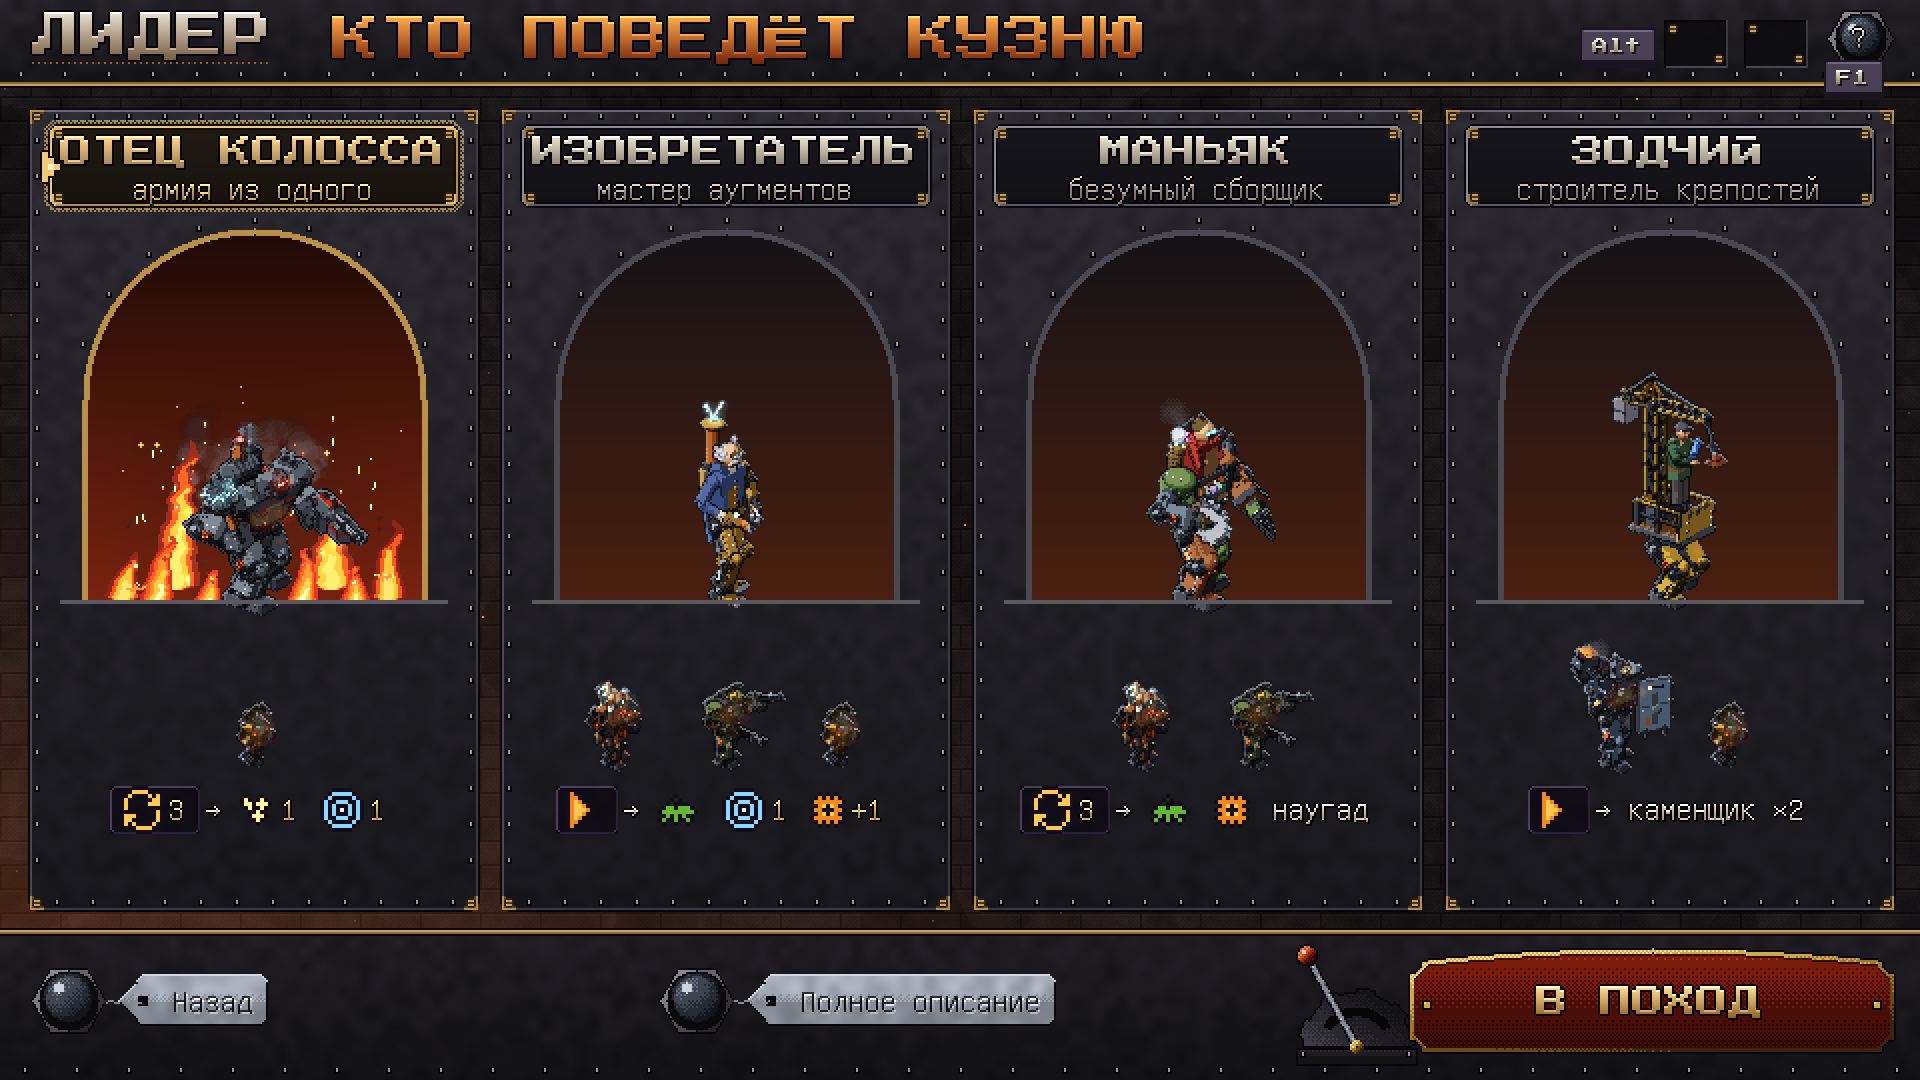
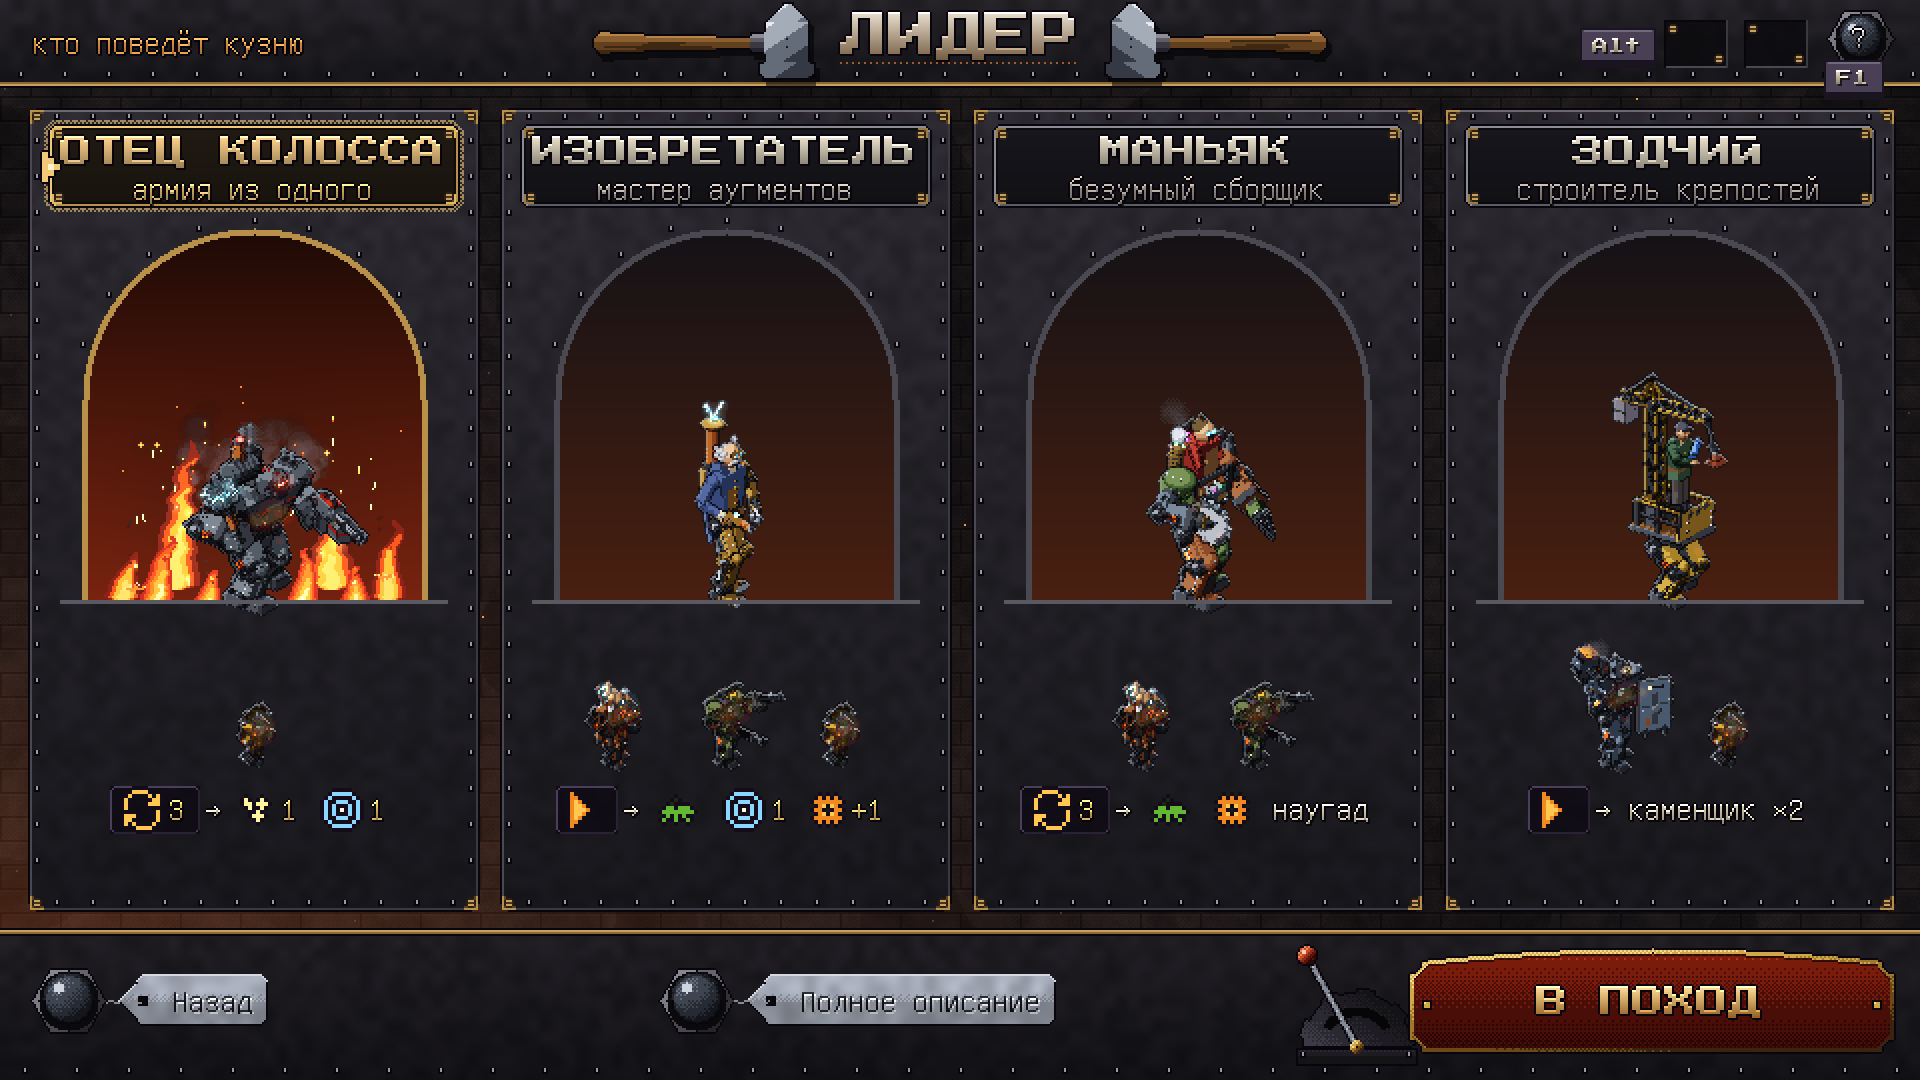
Литейщик: состояния и мелочи интерфейса
Заголовки карточки голема и выбора лидера по центру балки. Победа:
«Дальше» — наряд в мастерскую по шагам (ремонт, находка 1 из 3,
мастерская) и кошелёк после ремонта; трофей с машины. Перетаскивание
модуля: подходящее место горит, чужие корпуса под крестом. Лист
состояний: кнопки, ячейки, пустые панели.

Claude-Session: https://claude.ai/code/session_01Bh6a99SKMjjKSinDnrtssC

Changed region(s): [[0.0, 0.0, 0.6875, 0.0917]]

diff --git a/tools/sprites/foundry_hud.py b/tools/sprites/foundry_hud.py
@@ -637,13 +637,20 @@ def slipway(sc, frame, mods, core, ncell, rect, new_key=None, variant=None, role
             H.HOVER.append(("ядро", bx + 8, by + 18, 16, 16))
             letters(sc, MOD_NAME[key], bx + 30, by + 17, "text", 16, col=INK)
             callout(sc, pt, (ex, by + BH // 2), lane=lane)
+        elif st == "incoming" and variant == "drag":                  # dragged: the free cell waits for it, lit
+            FU.cell(sc, bx, by, bx + bw, by + BH, "new")
+            letters(sc, lab.upper(), bx + 8, by + 4, "title", 8, col=(150, 200, 230), outline=False)
+            letters(sc, "сюда", bx + bw // 2, by + 17, "text", 16, col=(170, 220, 250), align="center")
+            callout(sc, pt, (ex, by + BH // 2), col=hexc("#9ad8ff"), lane=lane, dash=True)
+            sc.glow(pt[0], pt[1], 9, hexc("#9ad8ff"), 0.6)
+            hot = (pt, bx + bw - 30, by + 28, bx, by, "r")
         elif st == "incoming":
             FU.cell(sc, bx, by, bx + bw, by + BH, "hover" if variant is None else "new")
             letters(sc, lab.upper(), bx + 8, by + 4, "title", 8, col=(150, 200, 230), outline=False)
             mod_icon(sc, key, bx + 8, by + 18)
             letters(sc, MOD_NAME[key], bx + 28, by + 17, "text", 16, col=(255, 210, 150))
             callout(sc, pt, (ex, by + BH // 2), col=HOTC, lane=lane)
-            hot = (pt, bx + bw - 30, by + 28)
+            hot = (pt, bx + bw - 30, by + 28, bx, by, "r")
         elif st == "broken":
             part_box(sc, bx, by, key, lab, lv, state="broken", w=bw, h=BH)
             callout(sc, pt, (ex, by + BH // 2), col=RED_, lane=lane)
@@ -697,7 +704,7 @@ def panel_tabs(sc, cur, broken=1, anim=None):
     sc.rgb[84, 710:946] = hexc("#8a6a34")
 
 
-def loot_panel(sc, new_key):
+def loot_panel(sc, new_key, drag=False):
     H.fx_line(sc, 720, 90, "{выбор:1 из 3}", dim=True)
     for j, (key, kind, st, nm, who, lines) in enumerate(OFFERS):
         y0 = 114 + j * 114
@@ -705,8 +712,8 @@ def loot_panel(sc, new_key):
         FU.cell(sc, 716, y0, 940, y0 + 106, "hi" if on_hook else st)
         if on_hook:
             FU.socket(sc, 724, y0 + 10, 776, y0 + 62)
-            letters(sc, "на", 750, y0 + 20, "text", 16, col=BRASS, align="center")
-            letters(sc, "крюке", 750, y0 + 38, "text", 16, col=BRASS, align="center")
+            letters(sc, "в" if drag else "на", 750, y0 + 20, "text", 16, col=BRASS, align="center")
+            letters(sc, "руке" if drag else "крюке", 750, y0 + 38, "text", 16, col=BRASS, align="center")
         else:
             FU.cell(sc, 724, y0 + 10, 776, y0 + 62, "locked")
             if isinstance(key, tuple):
@@ -803,7 +810,7 @@ def workshop(variant=None, frame="Орудие", new_key="long", name=None, pane
         FU.steam(sc, 430, 150, 14, seed=4)
     else:
         hot = slipway(sc, frame, mods, core, ncell, (186, 62, 690, 408), new_key=new_key, variant=variant,
-                      role=role, broken=state == "broken", body=body, anim=a_)
+                      role=role, broken=state == "broken", body=body, anim=a_, crane=variant != "drag")
     # under the drawing: the frame's own and its cells
     passive = {"Страж": "Заслон: {радиус:1} → {цель:1}", "Мудрец": "Питание: {свой} {радиус:1} → {через:−1}",
                "Горн": "Жар горна: {каждые:1} → {огонь} {радиус:1}", "Орудие": "Наводка: {дальность} → {урон} без потерь",
@@ -822,7 +829,7 @@ def workshop(variant=None, frame="Орудие", new_key="long", name=None, pane
     elif panel == "repair":
         repair_panel(sc)
     else:
-        loot_panel(sc, new_key)
+        loot_panel(sc, new_key, drag=variant == "drag")
     FU.sill(sc, 468)
     action(sc, 12, 478, 174, 526, "Автосборка", "steel")
     action(sc, 178, 478, 356, 526, "Починить · 2", "hot", heated=panel == "repair")
@@ -834,13 +841,108 @@ def workshop(variant=None, frame="Орудие", new_key="long", name=None, pane
         return sc
     if panel == "repair":
         H.cursor(sc, 201, 506)
+    elif variant == "drag":
+        drag_over(sc, new_key, hot, frame, a_.get("at", (446, 300)), a_.get("glow", 1.0))
     elif variant is None and hot:
         H.cursor(sc, hot[1], hot[2])
+    if variant == "drag":
+        name = name or "foundry_drag.png"
     name = name or {"loot": "foundry_workshop.png", "rack": "foundry_workshop_rack.png",
                     "repair": "foundry_workshop_repair.png"}[panel]
     img = sc.image(S)
     img.save(out(name))
     print(name, img.size)
+
+
+def drag_over(sc, key, hot, frame, at, glow=1.0):
+    """A module carried with the mouse: the bays it can't go to (other hulls) go dark under a red cross, its tag
+    says why; the cell it can take is lit cold blue, a dotted line runs to it from the module; the module itself
+    rides the cursor, lifted, its shadow under it."""
+    for i, (fr, *_r) in enumerate(ARMY):                              # the rack: only its own hull takes it
+        if fr == frame:
+            continue
+        y = 52 + i * 92
+        sc.rgb[y + 2:y + 84, 12:166] *= 0.42
+        for d in range(-2, 3):                                        # the cross, thick, rust red
+            for t in np.linspace(0, 1, 120):
+                x_, y_ = int(30 + t * 56), int(y + 20 + t * 52)
+                sc.rgb[y_ + d, x_ - 1:x_ + 2] = hexc("#c84a3a")
+                sc.rgb[int(y + 72 - t * 52) + d, x_ - 1:x_ + 2] = hexc("#c84a3a")
+        FU.tag(sc, 20, y + 58, 164, y + 80, "другой корпус", "rust")
+    if hot is not None and len(hot) > 4:                              # the cell that takes it: a dotted line to it
+        tx, ty = hot[3], hot[4] + 21
+        sc.glow(tx + 75, ty, 46, hexc("#9ad8ff"), 0.5 * glow)
+        x0, y0 = at[0] + 40, at[1] + 20
+        n = int(np.hypot(tx - x0, ty - y0) / 6)
+        for k in range(n):
+            if k % 2 == 0:
+                x_ = int(x0 + (tx - x0) * k / n)
+                y_ = int(y0 + (ty - y0) * k / n)
+                sc.rgb[y_ - 1:y_ + 2, x_ - 1:x_ + 2] = SU.OUTL
+                sc.rgb[y_:y_ + 2, x_:x_ + 2] = hexc("#cfeeff")
+    cx, cy = at                                                       # the module in hand
+    sh = (sc.xx >= cx + 6) & (sc.xx < cx + 50) & (sc.yy >= cy + 8) & (sc.yy < cy + 52)
+    sc.rgb[sh] *= 0.5
+    sc.glow(cx + 22, cy + 22, 30, hexc("#ffb060"), 0.3)
+    FU.cell(sc, cx, cy, cx + 44, cy + 44, "hover")
+    mod_icon(sc, key, cx + 6, cy + 6, 2)
+    H.cursor(sc, cx + 26, cy + 28)
+
+
+def states():
+    """The Foundry's controls and cells in every state, on one sheet: a control at rest, under the mouse, pressed,
+    and shut (its metal dull, why — under it); the cells' rims; the panels when there is nothing in them."""
+    sc = screen(97)
+    FU.wing(sc, 0, 0, WW, 44)
+    title_center(sc, "СОСТОЯНИЯ", "wrench")
+    FU.plate(sc, 12, 52, 948, 266, seed=81)
+    heading(sc, "КНОПКИ", 26, 62)
+    cols = ("обычная", "под мышью", "нажата", "недоступна")
+    for i, c in enumerate(cols):
+        letters(sc, c, 124 + i * 232, 86, "text", 16, col=MUTED, align="center")
+    for i in range(4):
+        x0 = 24 + i * 232
+        heated, an = i == 1, ({"press": 1.0} if i == 2 else None)
+        before = sc.rgb.copy()
+        action(sc, x0, 106, x0 + 200, 138, "Автосборка", "dull" if i == 3 else "steel", heated=heated, anim=an)
+        action(sc, x0, 146, x0 + 200, 178, "Починить · 2", "hot", heated=heated, anim={"turn": 0.5} if i == 2 else None)
+        action(sc, x0, 190, x0 + 214, 236, "В БОЙ", "hot" if i < 3 else "dull", big=True, heated=i in (1, 2),
+               anim={"angle": 1.0, "glow": 1.0} if i == 2 else None)
+        if i == 3:                                                    # shut: the metal of the controls dulled, and why
+            new_ = np.abs(sc.rgb - before).max(axis=2) > 1
+            new_[:142, :] = False
+            sc.rgb[new_] *= 0.55
+            H.fx_line(sc, x0 + 6, 240, "не хватает {металл:2}")
+    FU.plate(sc, 12, 272, 948, 372, seed=82)
+    heading(sc, "ЯЧЕЙКИ", 26, 282)
+    cells = [("normal", "обычная"), ("hi", "выбрана"), ("hover", "под мышью"), ("new", "новое"), ("broken", "сломано"),
+             ("rare", "редкое"), ("trophy", "трофей"), ("locked", "закрыто"), ("locked", "пусто")]
+    for i, (st, what) in enumerate(cells):
+        x0 = 24 + i * 102
+        FU.cell(sc, x0, 306, x0 + 94, 344, st)
+        if what == "пусто":
+            for k in range(x0 + 10, x0 + 84, 6):                      # an empty place: a dashed outline in it
+                sc.rgb[316, k:k + 3] = hexc("#4a4a52")
+                sc.rgb[334, k:k + 3] = hexc("#4a4a52")
+        letters(sc, what, x0 + 47, 348, "text", 16, col=MUTED, align="center")
+    FU.plate(sc, 12, 378, 948, 532, seed=83)
+    heading(sc, "ПУСТО", 26, 388)
+    empties = [("ДОБЫЧА", "добычи нет — враг ушёл", "или пропуск → {металл:+4}"),
+               ("СТОЙКА", "стойка пуста", "детали — из добычи и трофеев"),
+               ("РЕМОНТ", "всё цело", "{ремонт} не нужен")]
+    for i, (tab_, ln1, ln2) in enumerate(empties):
+        x0 = 24 + i * 308
+        FU.tab(sc, x0, 414, x0 + 90, 440, tab_, active=True)
+        FU.cell(sc, x0, 440, x0 + 296, 522, "locked")
+        for k in range(x0 + 10, x0 + 286, 6):
+            sc.rgb[450, k:k + 3] = hexc("#3a3a42")
+            sc.rgb[512, k:k + 3] = hexc("#3a3a42")
+        letters(sc, ln1, x0 + 148, 458, "text", 16, col=PALE, align="center")
+        w_, _ = H.fx_line(sc, 0, 0, ln2, draw=False)
+        H.fx_line(sc, int(x0 + 148 - w_ / 2), 482, ln2, dim=True)
+    img = sc.image(S)
+    img.save(out("foundry_states.png"))
+    print("foundry_states.png", img.size)
 
 
 def GP_part(frame, slot):
@@ -1279,7 +1381,8 @@ def card(frame="Орудие", hover="mortar", anim=None, ret=False):
     the right its passport — leadership, core, last battle; body; blow; what its class can and can't."""
     sc = screen(13)
     FU.wing(sc, 0, 0, WW, 44)
-    title(sc, frame.upper(), "стрелок · голем")
+    title_center(sc, frame.upper(), "wrench")
+    letters(sc, "стрелок · голем", 16, 13, "text", 16, col=MUTED)
     toolbar(sc)
     mods = {"mortar": 1, "canister": 1, "long": 1}
     ncell, core = 4, "cast"
@@ -1391,8 +1494,8 @@ def leaders_pick(anim=None, ret=False):
     import frames as F
     sc = screen(17)
     FU.wing(sc, 0, 0, WW, 44)
-    w = title(sc, "ЛИДЕР")
-    letters(sc, "КТО ПОВЕДЁТ КУЗНЮ", 16 + w + 30, 8, "title", 24, col=(255, 170, 80), col2=(120, 40, 10))
+    title_center(sc, "ЛИДЕР", "hammer")
+    letters(sc, "кто поведёт кузню", 16, 13, "text", 16, col=(255, 170, 80))
     toolbar(sc)
     for i, (nm, epi, kind, k, army, rule) in enumerate(PICK):
         x0, sel = 14 + i * 236, i == 0
@@ -1661,8 +1764,23 @@ def stamp(sc, x, y, text, col="#e0503a"):
         sc.rgb[sy, sx] = hexc("#14243a")
 
 
-def aftermath(anim=None, ret=False):
-    """Victory: what broke and what it cost, what the battle paid, who did what."""
+def num_disc(sc, cx, cy, n, on=True):
+    """A step's number on a work order: a brass disc struck with the digit, like a tool check."""
+    X, Y = sc.xx - cx, sc.yy - cy
+    d = np.hypot(X, Y)
+    m = d <= 12.5
+    t = np.clip((Y + 12) / 24, 0, 1)[..., None]
+    a_, b_ = (hexc("#f0c878"), hexc("#8a6024")) if on else (hexc("#a8aab4"), hexc("#4a4a52"))
+    sc.rgb[m] = (a_ * (1 - t) + b_ * t)[m]
+    sc.rgb[m & (d > 11.2)] = SU.OUTL
+    sc.occ[m] = True
+    letters(sc, str(n), cx + 1, cy - 8, "title", 16, col=(52, 32, 12) if on else (30, 30, 36), outline=False,
+            shadow=False, align="center")
+
+
+def aftermath(anim=None, ret=False, variant=None):
+    """Victory: what broke and what it cost, what the battle paid (a trophy, if the enemy was a machine), who did
+    what; and what's next, as a work order — repair, the find, the workshop — with the purse after it."""
     import frames as F
     from swarm_effects import lit
     sc = screen(19)
@@ -1703,8 +1821,16 @@ def aftermath(anim=None, ret=False):
     letters(sc, "41", 392, 150, "title", 24, col=(255, 140, 110), col2=(170, 50, 40))
     letters(sc, "врагов", 470, 156, "text", 16, col=MUTED)
     FU.cell(sc, 350, 192, 630, 258, "trophy")
-    letters(sc, "трофей: нет — враг живой", 364, 202, "text", 16, col=MUTED)
-    H.fx_line(sc, 364, 226, "{машина} → {модуль} · {металл}", dim=True)
+    if variant == "trophy":                                          # a machine beaten: its part, ours to keep or melt
+        sc.glow(386, 225, 26, hexc("#e0b860"), 0.35)
+        FU.cell(sc, 358, 200, 410, 250, "normal")
+        mod_icon(sc, "dome", 368, 209, 2)
+        letters(sc, "Щит-купол", 420, 200, "text", 16, col=GOLD)
+        letters(sc, "трофей", 604, 200, "text", 16, col=MUTED, align="right")
+        H.fx_line(sc, 420, 226, "в ящик · или {металл:+5}")
+    else:
+        letters(sc, "трофей: нет — враг живой", 364, 202, "text", 16, col=MUTED)
+        H.fx_line(sc, 364, 226, "{машина} → {модуль} · {металл}", dim=True)
     heading(sc, "КТО ЧТО", 354, 272)
     for j, (fr, kills, dmg_) in enumerate((("Страж", 6, 31), ("Мудрец", 12, 40), ("Орудие", 17, 12), ("Механик", 0, 3))):
         y = 298 + j * 40
@@ -1719,18 +1845,43 @@ def aftermath(anim=None, ret=False):
     # what next
     FU.plate(sc, 650, 52, 948, 462, seed=33)
     heading(sc, "ДАЛЬШЕ", 664, 64)
-    H.fx_line(sc, 664, 96, "{выбор:1 из 3} → {модуль}")
-    H.fx_line(sc, 664, 128, "{металл} → {ремонт} · голем · переплавка", dim=True)
-    lead = leader_sprite("zodchiy", 1.9)
-    sc.blit(lead, int(800 - lead.ox), int(420 - lead.oy))
-    FU.sparks(sc, 740, 420, 10, seed=8)
+    letters(sc, "наряд в мастерскую", 934, 68, "text", 16, col=MUTED, align="right")
+    # the work order: its steps in the order the workshop takes them
+    y = 94
+    FU.cell(sc, 660, y, 940, y + 92, "broken")                        # 1 — the repair
+    num_disc(sc, 678, y + 16, 1)
+    letters(sc, "РЕМОНТ", 696, y + 9, "title", 16, col=(240, 160, 130), col2=(110, 40, 30))
+    FU.cell(sc, 670, y + 34, 716, y + 80, "locked")
+    mod_icon(sc, "overload", 677, y + 41, 2)
+    letters(sc, "Мудрец · Перегрузка", 726, y + 36, "text", 16, col=INK)
+    H.fx_line(sc, 726, y + 58, "{модуль:II} ⇒ {модуль:I} · {металл:2}")
+    y += 100
+    FU.cell(sc, 660, y, 940, y + 104, "new")                          # 2 — the find: three crates, shut
+    num_disc(sc, 678, y + 16, 2)
+    letters(sc, "НАХОДКА", 696, y + 9, "title", 16, col=(170, 220, 250), col2=(30, 70, 110))
+    H.fx_line(sc, 830, y + 8, "{выбор:1 из 3}")
+    for j in range(3):
+        bx = 674 + j * 88
+        FU.cell(sc, bx, y + 36, bx + 78, y + 94, "locked")
+        for k in range(y + 46, y + 92, 8):                            # the crate's boards
+            sc.rgb[k, bx + 6:bx + 72] = sc.rgb[k, bx + 6:bx + 72] * 0.7 + hexc("#4a3a24") * 0.3
+        letters(sc, "?", bx + 39, y + 50, "title", 24, col=(150, 200, 230), col2=(30, 70, 110), align="center")
+    y += 112
+    FU.cell(sc, 660, y, 940, y + 84, "normal")                        # 3 — the workshop: what else can be done
+    num_disc(sc, 678, y + 16, 3, on=False)
+    letters(sc, "МАСТЕРСКАЯ", 696, y + 9, "title", 16, col=INK, col2=(60, 60, 70))
+    letters(sc, "голем · деталь · переплавка", 672, y + 36, "text", 16, col=MUTED)
+    H.fx_line(sc, 672, y + 56, "или пропуск → {металл:+4}", dim=True)
+    y += 92
+    H.fx_line(sc, 664, y + 4, "{металл:20} → после ремонта {металл:18}")
     FU.sill(sc, 468)
     action(sc, 650, 474, 948, 530, "В МАСТЕРСКУЮ", "hot", big=True)
     if ret:
         return sc
+    name = "foundry_aftermath_trophy.png" if variant == "trophy" else "foundry_aftermath.png"
     img = sc.image(S)
-    img.save(out("foundry_aftermath.png"))
-    print("foundry_aftermath.png", img.size)
+    img.save(out(name))
+    print(name, img.size)
 
 
 # ---------------------------------------------------------------- the battle, seen from the Foundry
@@ -2021,7 +2172,9 @@ def battle():
 
 
 SCREENS = {"workshop": workshop, "camp": camp, "leadercard": leader_card, "rack": workshop_rack, "repair": workshop_repair, "smelt": smelt, "slipways": slipways, "new": new_golem, "card": card, "leader": leaders_pick, "aftermath": aftermath, "battle": battle, "glossary": glossary,
-           "confirm": confirm_smelt, "alt": lambda: leader_card(alt=True)}
+           "confirm": confirm_smelt, "alt": lambda: leader_card(alt=True),
+           "drag": lambda: workshop("drag"), "trophy": lambda: aftermath(variant="trophy"),
+           "states": states}
 
 if __name__ == "__main__":
     arg = sys.argv[1] if len(sys.argv) > 1 else "all"
